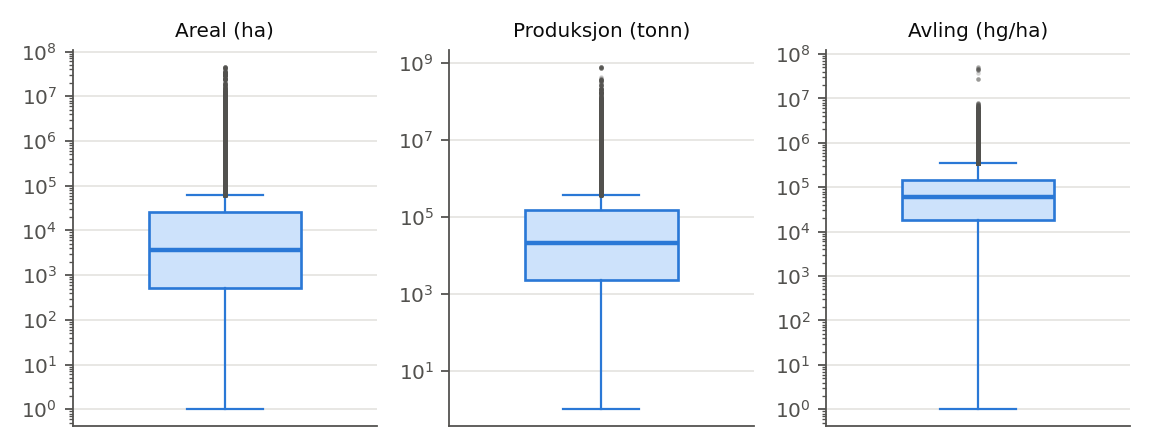
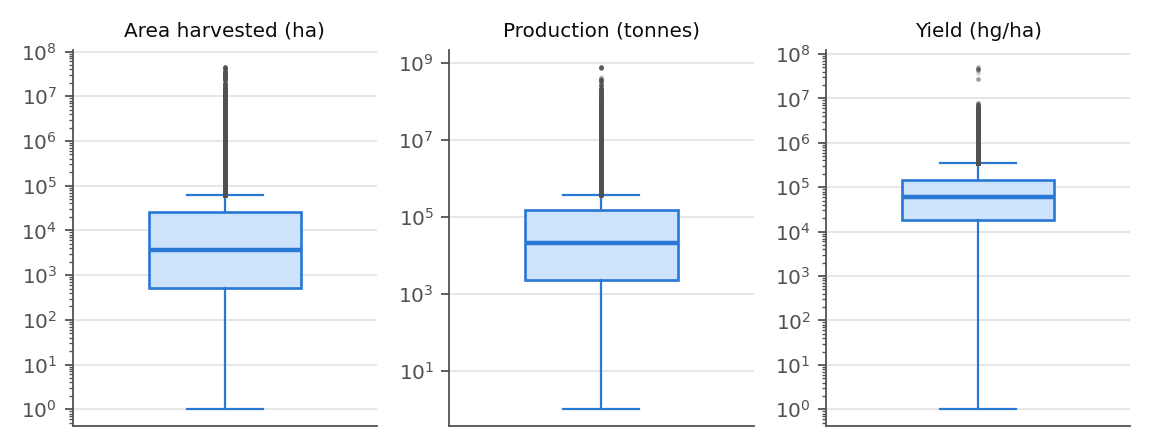
Assignment 1: engelske figuretiketter til Overleaf-rapporten
Rapporten skrives på engelsk i Overleaf, så figur 1 og 2 har fått
engelske akser og tallformat. README beskriver nå at Overleaf er
den innleverte versjonen, med engelsk tallformat og oppdatert
ordbudsjett, og rapport/*.md er merket som norsk arbeidsversjon.

Claude-Session: https://claude.ai/code/session_01JsVNgHhfRJ3ibWMPXdkcDw

Changed region(s): [[0.4375, 0.0312, 0.625, 0.0938], [0.0938, 0.0312, 0.2812, 0.0938], [0.7812, 0.0312, 0.9062, 0.0938]]

diff --git a/assignment1/src/1_datautforskning.py b/assignment1/src/1_datautforskning.py
@@ -20,6 +20,8 @@ from felles import FIGURES as FIG, NUM, TRIMMED, A, P, Y, read
 FIG.mkdir(parents=True, exist_ok=True)
 
 LABEL = {A: "Areal (ha)", P: "Produksjon (tonn)", Y: "Avling (hg/ha)"}
+# Figurene står i den engelske Overleaf-rapporten, så etikettene der er på engelsk
+FIG_LABEL = {A: "Area harvested (ha)", P: "Production (tonnes)", Y: "Yield (hg/ha)"}
 CAT = ["Area", "Item"]
 BLUE, INK, INK2, GRID = "#2a78d6", "#0b0b0b", "#52514e", "#e6e5e1"
 
@@ -101,10 +103,10 @@ fig, ax = plt.subplots(figsize=(5.2, 1.9))
 y = np.arange(len(NUM))[::-1]
 ax.barh(y, miss.values, color=BLUE, height=0.55)
 for yi, v, n in zip(y, miss.values, df[NUM].isna().sum()):
-    ax.text(v + 0.15, yi, f"{v:.1f} %  ({fmt(n)})".replace(".", ","), va="center", color=INK, fontsize=8.5)
-ax.set_yticks(y, [LABEL[c] for c in NUM], color=INK)
+    ax.text(v + 0.15, yi, f"{v:.1f}%  ({n:,})", va="center", color=INK, fontsize=8.5)
+ax.set_yticks(y, [FIG_LABEL[c] for c in NUM], color=INK)
 ax.set_xlim(0, miss.max() * 1.45)
-ax.set_xlabel("Andel manglende verdier (%)")
+ax.set_xlabel("Share of missing values (%)")
 ax.grid(axis="x", color=GRID, linewidth=0.8)
 ax.set_axisbelow(True)
 ax.spines["left"].set_visible(False)
@@ -127,7 +129,7 @@ for ax, c in zip(axes, NUM):
                flierprops=dict(marker="o", markersize=2, markerfacecolor=INK2,
                                markeredgewidth=0, alpha=0.25))
     ax.set_yscale("log")
-    ax.set_title(LABEL[c], color=INK, fontsize=9)
+    ax.set_title(FIG_LABEL[c], color=INK, fontsize=9)
     ax.set_xticks([])
     ax.grid(axis="y", color=GRID, linewidth=0.8, which="major")
     ax.set_axisbelow(True)

diff --git a/assignment1/README.md b/assignment1/README.md
@@ -25,7 +25,7 @@ assignment1/
 ├── README.md                 ← denne filen
 ├── oppgavetekst.pdf
 ├── notater-oppgave3-6.md     ← råd og ferdig utregnede tall til resten av oppgavene
-├── rapport/                  ← rapporttekst per oppgave, klar til å limes inn (norsk)
+├── rapport/                  ← norsk arbeidsversjon av rapportteksten (se «Rapporten» under)
 │   ├── 0-datasett.md
 │   ├── 1-datautforskning.md
 │   ├── 2-manglende-verdier.md
@@ -71,22 +71,31 @@ Skriptene sjekker seg selv underveis (blant annet at ingen verdier går tapt i p
 avling = produksjon × 10 000 / areal i alle rader), og stopper med en feilmelding hvis noe er galt.
 Alle tall i rapporttekstene kommer fra utskriften til skriptene.
 
+## Rapporten
+
+Den innleverte rapporten skrives i **Overleaf, på engelsk**. Introduction (valg av datasett),
+oppgave 1 og oppgave 2 er lagt inn der, med LaTeX-tabeller (booktabs) og figurene fra `rapport/figurer/`
+(last dem opp i Overleaf-prosjektet). Filene i `rapport/` er den norske arbeidsversjonen av de samme tekstene.
+
 ## Når dere legger til oppgave 3–6
 
 - Nytt skript: `src/3_outliers.py` osv. Start med `from felles import CLEAN, NUM, A, P, Y, read` og `df = read(CLEAN)`.
-- Ny rapporttekst: `rapport/3-outliers.md` osv., i samme format som de andre.
-- Nummerering: tabell 1–5 og figur 1–2 er brukt, så neste tabell er **Tabell 6** og neste figur **Figur 3**.
-- Tallformat i rapporten: norsk, med mellomrom som tusenskille og desimalkomma (7,3 %).
+- Rapporttekst skrives rett i Overleaf (engelsk). Notater kan eventuelt legges i `rapport/3-outliers.md` osv.
+- Nummerering: LaTeX nummererer selv – bruk `\label`/`\ref`. Table 1–5 og Figure 1–2 er brukt.
+- Tallformat i rapporten: engelsk, med komma som tusenskille og desimalpunktum (98,101 og 7.3%).
+- Figurer med engelske etiketter, i samme stil som `1_datautforskning.py`.
 
 ## Ordbudsjett (grense 3 000 ord)
 
+Talt på den engelske teksten i Overleaf:
+
 | Del | Ord (inkl. tabell- og figurtekster) |
 |---|---|
-| Datasett | ca. 330 |
-| Oppgave 1 | ca. 330 |
-| Oppgave 2 | ca. 500 |
-| **Brukt** | **ca. 1 160** |
-| **Igjen til oppgave 3–6** | **ca. 1 850** |
+| Introduction (datasett) | ca. 330 |
+| Oppgave 1 | ca. 345 |
+| Oppgave 2 | ca. 560 |
+| **Brukt** | **ca. 1 240** |
+| **Igjen til oppgave 3–6** | **ca. 1 760** |
 
 Selve tabellinnholdet utgjør ca. 320 ord til. Oppgaveteksten sier at tabell- og figurtekster teller,
 men ikke om tabellinnholdet gjør det – det bør avklares med faglærer.

diff --git a/assignment1/rapport/0-datasett.md b/assignment1/rapport/0-datasett.md
@@ -1,6 +1,6 @@
 # Valg og tilpasning av datasett
 
-> Rapporttekst, klar til å limes inn. Kode: `src/0_tilpass_datasett.py`. Ca. 330 ord inkl. tabelltekst.
+> Norsk arbeidsversjon – den engelske teksten står i Overleaf-rapporten. Kode: `src/0_tilpass_datasett.py`. Ca. 330 ord inkl. tabelltekst.
 
 Før vi valgte data, leste vi gjennom alle deloppgavene og vurderte de 15 kandidatdatasettene opp mot det oppgavene krever: både numeriske og kategoriske kolonner, ekte manglende verdier, realistiske uteliggere, håndterbar størrelse og selvforklarende kolonner. Bilde-, tekst- og rå sensordatasett ble utelukket med en gang. Vi valgte FAOSTATs avlingsstatistikk (`crop1.csv`) fremfor husdyrfilen (`live1.csv`), som bare har én numerisk variabel med blandede enheter og dermed gjør skalering triviell og PCA meningsløs. Deretter tilpasset vi `crop1.csv` i tre steg uten å endre noen verdier (Tabell 1). Først pivoterte vi filen fra langt format, der kolonnen `Value` blander hektar, tonn og hg/ha, slik at hver rad er én kombinasjon av land, vekst og år med tre numeriske kolonner (`area_harvested_ha`, `production_tonnes`, `yield_hg_per_ha`). Deretter fjernet vi 35 regioner og landgrupper, blant annet «China», som er summen av fastlands-Kina, Taiwan, Hongkong og Macao. Disse radene teller land dobbelt og ville dominert outlier-deteksjonen (verdens hveteproduksjon i 2019 var 7,65·10⁸ tonn, mot 1,34·10⁸ tonn for det største landet). Til slutt avgrenset vi til 2010–2020 i stedet for til noen få hovedvekster. Hovedvekstene er de best rapporterte (1,0 % manglende produksjon for hvete, mot en median på 12,6 % for alle vekster i 1961–2020), så å velge dem ville fjernet det meste av de manglende dataene. Avgrensning på år beholder alle 118 vekster og 200 land til encoding-oppgaven og unngår de fleste grenseendringer: ti land og områder, blant annet USSR og Jugoslavia, finnes bare før 2010, og 32 land kommer først inn senere. Unntaket er Sudan, som ble delt i 2011: «Sudan (former)» dekker 2010–2011 og «Sudan» og «South Sudan» 2012–2020. Det gir et brudd i disse tidsseriene, men ingen dobbelttelling. Avgrensningen reduserer også andelen manglende verdier, fordi rapporteringen er bedre i nyere år: fra 15,1 %, 11,0 % og 16,0 % til 7,3 %, 5,9 % og 9,6 % i henholdsvis areal, produksjon og avling.
 

diff --git a/assignment1/rapport/1-datautforskning.md b/assignment1/rapport/1-datautforskning.md
@@ -1,6 +1,6 @@
 # Oppgave 1 – Datautforskning
 
-> Rapporttekst, klar til å limes inn. Kode: `src/1_datautforskning.py` (skriver ut alle tall og lager figurene).
+> Norsk arbeidsversjon – den engelske teksten står i Overleaf-rapporten. Kode: `src/1_datautforskning.py` (skriver ut alle tall og lager figurene).
 > Ca. 330 ord inkl. tabell- og figurtekster. Beskriver `crop1_trimmed.csv`, altså dataene *før* oppgave 2.
 
 **1a.** Datasettet har 98 101 rader og seks kolonner, der hver rad er ett land (`Area`), én vekst (`Item`) og ett år (`Year`, 2010–2020) med høstet areal, produksjon og avling (Tabell 2). `Area` og `Item` er kategoriske tekstkolonner, og de tre målingene er flyttall. `Year` er et heltall som vi behandler som numerisk, fordi årene er ordnet med like avstander (Tabell 3). Alle målingene er sterkt høyreskjeve: gjennomsnittlig produksjon er over 50 ganger medianen, og standardavviket er større enn gjennomsnittet (Tabell 4).

diff --git a/assignment1/rapport/2-manglende-verdier.md b/assignment1/rapport/2-manglende-verdier.md
@@ -1,6 +1,6 @@
 # Oppgave 2 – Håndtering av manglende verdier
 
-> Rapporttekst, klar til å limes inn. Kode: `src/2_manglende_verdier.py`. Ca. 500 ord inkl. tabelltekst.
+> Norsk arbeidsversjon – den engelske teksten står i Overleaf-rapporten. Kode: `src/2_manglende_verdier.py`. Ca. 500 ord inkl. tabelltekst.
 
 Av 98 101 rader mangler 9 448 minst én verdi. Vi undersøkte først hvorfor verdiene mangler, siden årsaken avgjør hvilken metode som passer. Tabell 5 oppsummerer stegene.
 
